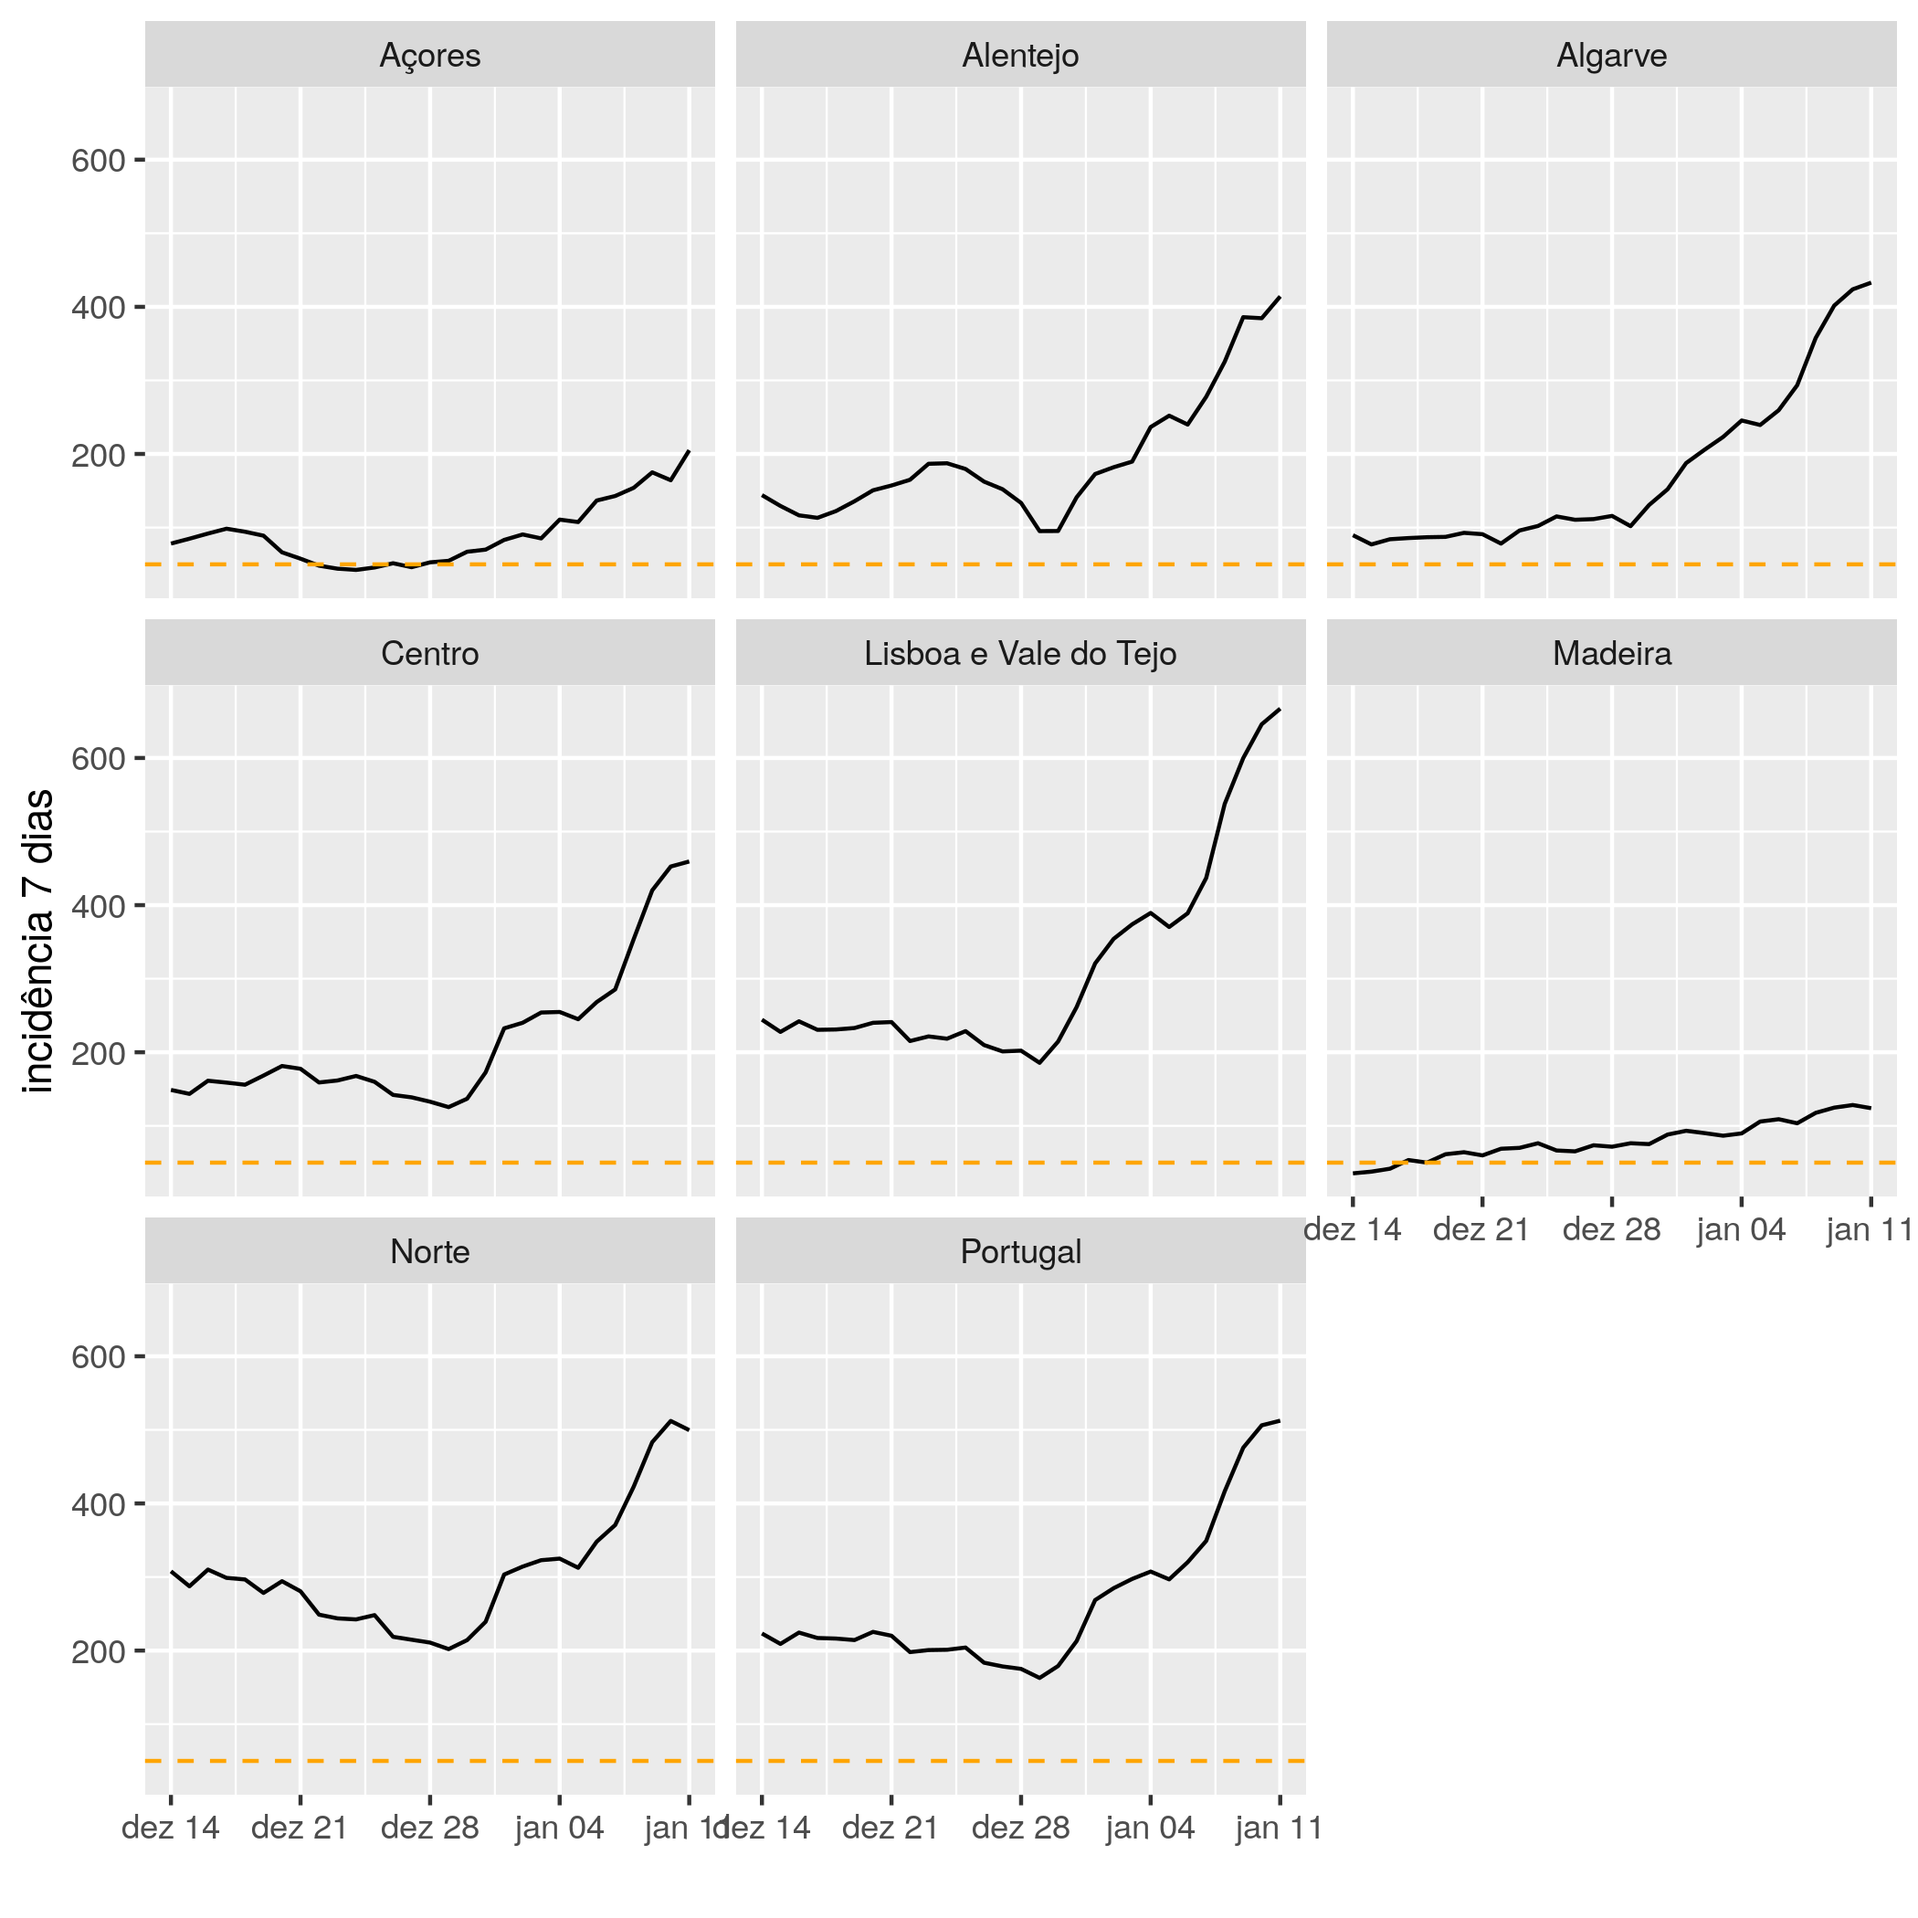
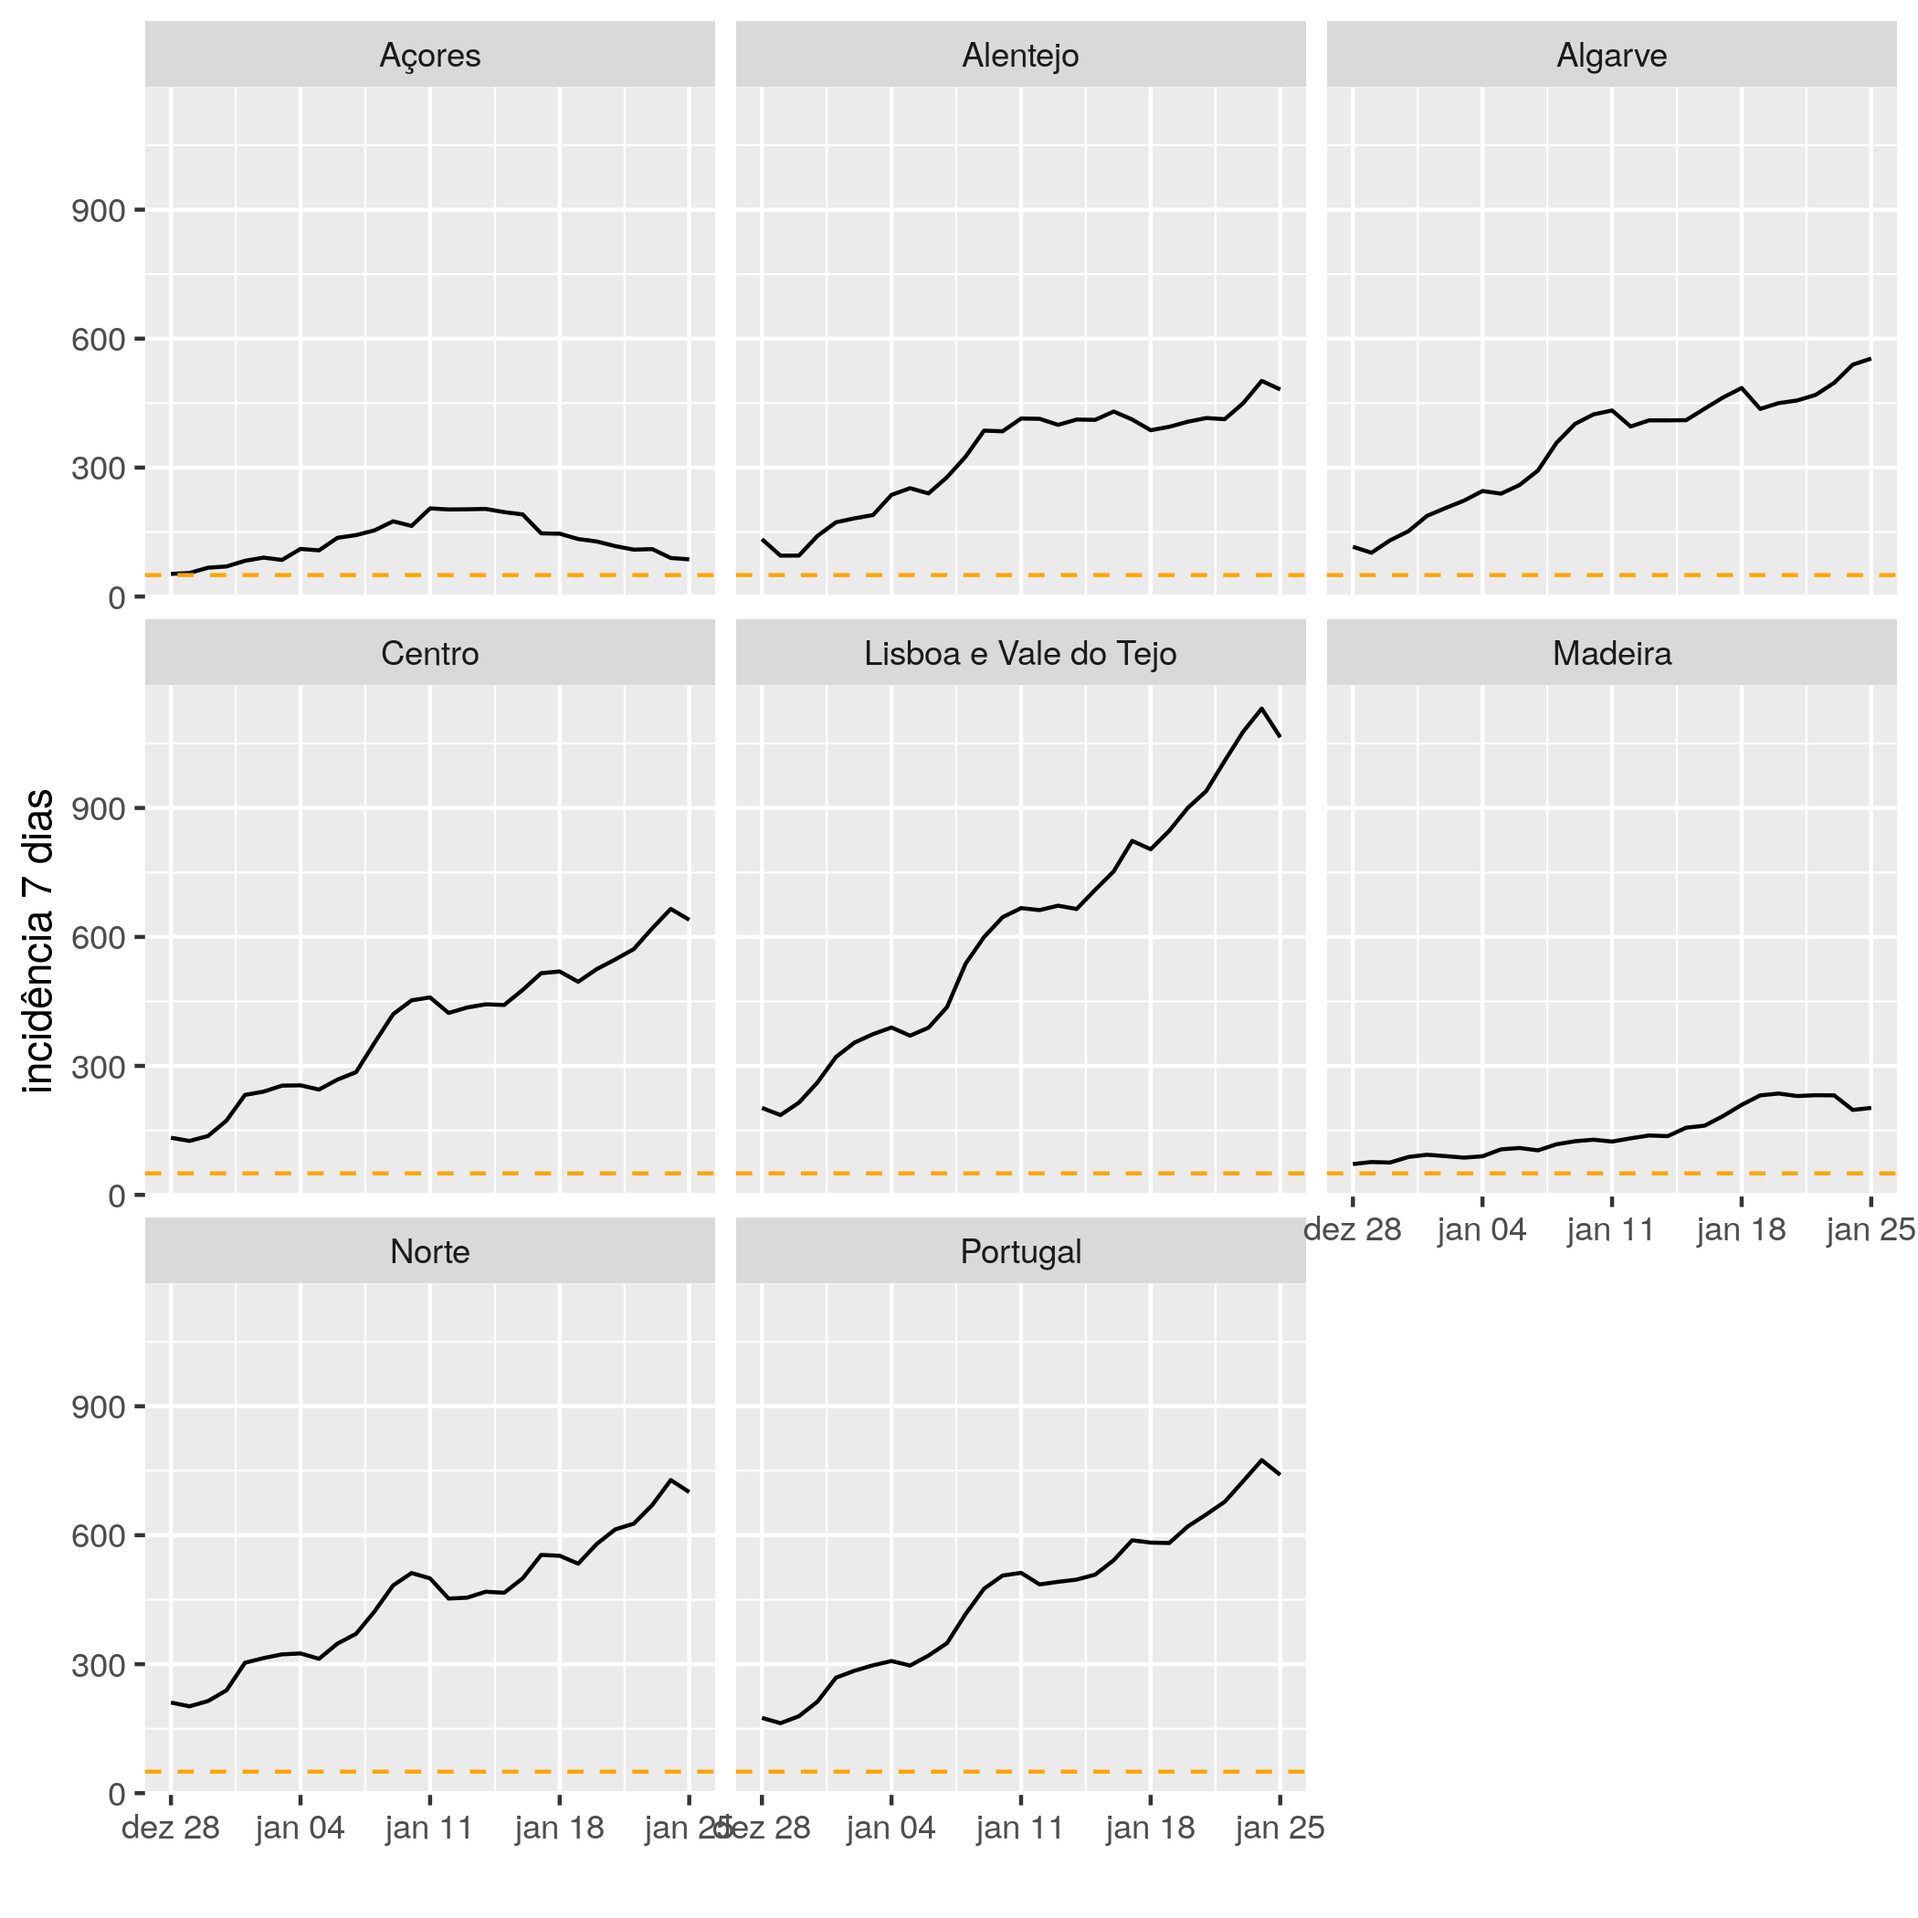
e' o tecas

diff --git a/README.md b/README.md
@@ -1,7 +1,7 @@
 # Contexto
 A incidência por 100000 habitantes em 7 dias é o valor de referência para decretar regiões de risco pelas autoridades de saúde alemãs (valor charneira é 50). Gráficos atualizados diariamente. Para ajudar quem quer viajar para a Alemanha ou vir passar férias a Portugal.
 
-Dados mais recentes de 2021-01-11.
+Dados mais recentes de 2021-01-25.
 
 # Incidência por 100000 habitantes em 7 dias
 ## Últimos 30 dias
